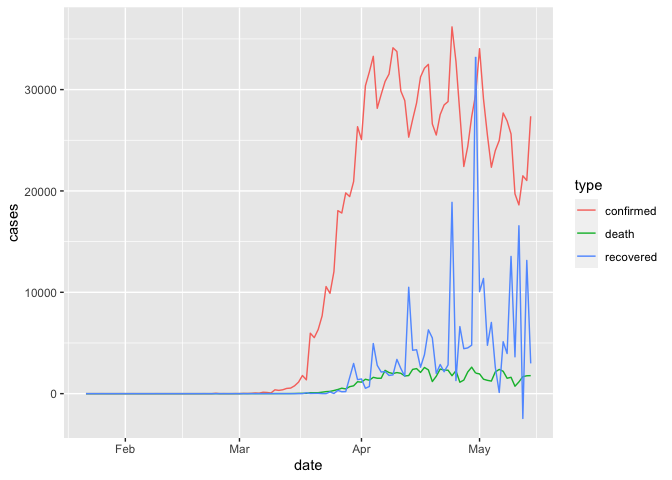
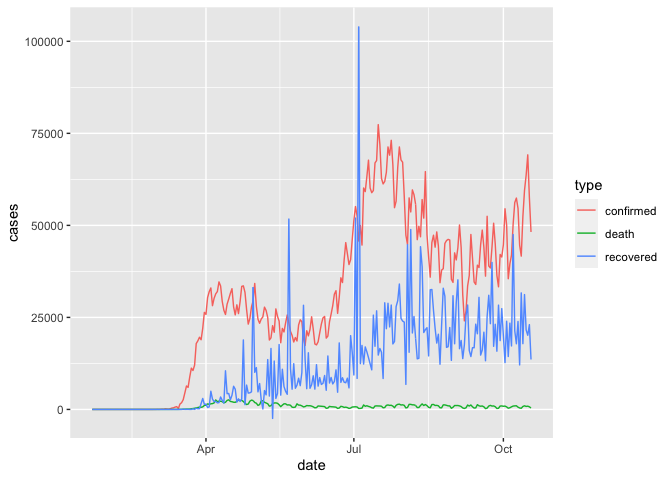
Lesson 10 updates

diff --git a/docs/lesson10-tidy-data.html b/docs/lesson10-tidy-data.html
@@ -442,7 +442,6 @@ div.tocify {
 <h2>Announcements</h2>
 <ul>
 <li>Guest lecture on Wednesday by Erika Mudrak from the Cornell Statistical Consultation Unit. She will talk about debugging strategies (she has to debug a lot of people’s code!) and about getting help with R. Don’t miss it!</li>
-<li>Thanks for the mid-term feedback!</li>
 </ul>
 <p><br> <br></p>
 </div>
@@ -561,6 +560,7 @@ library(janitor)  ## install.packages(&quot;janitor&quot;)</code></pre>
 <p>To explore tidy data in a different context, let’s work through a tutorial developed by Jenny Bryan using data on the Lord of the Rings movies. This nicely illustrates the concepts of lengtening and widening datasets. It uses outdated functions for pivoting the dataframes, however, so we’ll work through updated code here (i.e. only look at the <code>01-intro.md</code> file, not the <code>02-gather.md</code> and <code>03-spread.md</code>).</p>
 <p>First let’s read the intro (<code>01-intro.md</code>) <a href="https://github.com/jennybc/lotr-tidy/blob/master/01-intro.md">here</a></p>
 <p>Then let’s work through reshaping the data.</p>
+<p><br></p>
 <div id="import-untidy-lord-of-the-rings-data" class="section level4">
 <h4>1. Import untidy Lord of the Rings data</h4>
 <p>We bring the data into data frames or tibbles, one per film, and do some inspection.</p>
@@ -588,6 +588,7 @@ library(janitor)  ## install.packages(&quot;janitor&quot;)</code></pre>
 ##   Female = col_double(),
 ##   Male = col_double()
 ## )</code></pre>
+<p><br></p>
 </div>
 <div id="collect-untidy-lord-of-the-rings-data-into-a-single-data-frame" class="section level4">
 <h4>2. Collect untidy Lord of the Rings data into a single data frame</h4>
@@ -619,6 +620,7 @@ str(lotr_untidy)</code></pre>
 ## 7 The Return Of The King     Elf       183   510
 ## 8 The Return Of The King     Hobbit      2  2673
 ## 9 The Return Of The King     Man       268  2459</code></pre>
+<p><br></p>
 </div>
 <div id="tidy-the-untidy-lord-of-the-rings-data" class="section level4">
 <h4>3. Tidy the untidy Lord of the Rings data</h4>
@@ -650,6 +652,7 @@ lotr_tidy</code></pre>
 ## 18 The Return Of The King     Man    Female   268</code></pre>
 <p>Tidy data… mission accomplished!</p>
 <p>To explain our call to pivot_longer() above, let’s read it from right to left: we took the variables Female and Male and gathered their values into a single new variable Words. This forced the creation of a companion variable Gender, which tells whether a specific value of Words came from Female or Male. All other variables, such as Film, remain unchanged and are simply replicated as needed.</p>
+<p><br></p>
 </div>
 <div id="write-the-tidy-data-to-a-delimited-file" class="section level4">
 <h4>4. Write the tidy data to a delimited file</h4>
@@ -726,33 +729,34 @@ lotr_tidy %&gt;%
 <div id="applying-this-to-our-coronavirus-dataset" class="section level2">
 <h2>Applying this to our Coronavirus dataset</h2>
 <p>Let’s now return to our Coronavirus dataset. Let’s remind ourselves of it’s structure</p>
-<pre class="r"><code>coronavirus &lt;- read_csv(&#39;https://raw.githubusercontent.com/RamiKrispin/coronavirus-csv/master/coronavirus_dataset.csv&#39;, col_types = cols(Province.State = col_character()))
+<pre class="r"><code>coronavirus &lt;- read_csv(&#39;https://raw.githubusercontent.com/RamiKrispin/coronavirus/master/csv/coronavirus.csv&#39;, col_types = cols(province = col_character()))
 
 coronavirus</code></pre>
-<pre><code>## # A tibble: 89,490 x 7
-##    Province.State Country.Region   Lat  Long date       cases type     
-##    &lt;chr&gt;          &lt;chr&gt;          &lt;dbl&gt; &lt;dbl&gt; &lt;date&gt;     &lt;dbl&gt; &lt;chr&gt;    
-##  1 &lt;NA&gt;           Afghanistan       33    65 2020-01-22     0 confirmed
-##  2 &lt;NA&gt;           Afghanistan       33    65 2020-01-23     0 confirmed
-##  3 &lt;NA&gt;           Afghanistan       33    65 2020-01-24     0 confirmed
-##  4 &lt;NA&gt;           Afghanistan       33    65 2020-01-25     0 confirmed
-##  5 &lt;NA&gt;           Afghanistan       33    65 2020-01-26     0 confirmed
-##  6 &lt;NA&gt;           Afghanistan       33    65 2020-01-27     0 confirmed
-##  7 &lt;NA&gt;           Afghanistan       33    65 2020-01-28     0 confirmed
-##  8 &lt;NA&gt;           Afghanistan       33    65 2020-01-29     0 confirmed
-##  9 &lt;NA&gt;           Afghanistan       33    65 2020-01-30     0 confirmed
-## 10 &lt;NA&gt;           Afghanistan       33    65 2020-01-31     0 confirmed
-## # … with 89,480 more rows</code></pre>
+<pre><code>## # A tibble: 213,548 x 7
+##    date       province country       lat  long type      cases
+##    &lt;date&gt;     &lt;chr&gt;    &lt;chr&gt;       &lt;dbl&gt; &lt;dbl&gt; &lt;chr&gt;     &lt;dbl&gt;
+##  1 2020-01-22 &lt;NA&gt;     Afghanistan  33.9  67.7 confirmed     0
+##  2 2020-01-23 &lt;NA&gt;     Afghanistan  33.9  67.7 confirmed     0
+##  3 2020-01-24 &lt;NA&gt;     Afghanistan  33.9  67.7 confirmed     0
+##  4 2020-01-25 &lt;NA&gt;     Afghanistan  33.9  67.7 confirmed     0
+##  5 2020-01-26 &lt;NA&gt;     Afghanistan  33.9  67.7 confirmed     0
+##  6 2020-01-27 &lt;NA&gt;     Afghanistan  33.9  67.7 confirmed     0
+##  7 2020-01-28 &lt;NA&gt;     Afghanistan  33.9  67.7 confirmed     0
+##  8 2020-01-29 &lt;NA&gt;     Afghanistan  33.9  67.7 confirmed     0
+##  9 2020-01-30 &lt;NA&gt;     Afghanistan  33.9  67.7 confirmed     0
+## 10 2020-01-31 &lt;NA&gt;     Afghanistan  33.9  67.7 confirmed     0
+## # … with 213,538 more rows</code></pre>
 <p><strong>QUESTION</strong>: Is this in tidy format?</p>
 <p>Last class, we visualized the global case counts date</p>
 <pre class="r"><code>coronavirus %&gt;% 
   group_by(date, type) %&gt;%
-  summarize(cases=sum(cases)) %&gt;%
+  summarize(cases = sum(cases)) %&gt;%
   ggplot() +
-  geom_col(aes(x=date, y = cases, fill = type))</code></pre>
+  geom_col(aes(x = date, y = cases, fill = type))</code></pre>
 <pre><code>## `summarise()` regrouping output by &#39;date&#39; (override with `.groups` argument)</code></pre>
-<p><img src="lesson10-files/unnamed-chunk-9-1.png" /><!-- --></p>
+<p><img src="lesson10-files/unnamed-chunk-9-1.png" /><!-- --> <br></p>
 <p>Let’s see how we would do that if the data had been in a wider format.</p>
+<p><br></p>
 <div id="your-turn-1" class="section level4">
 <h4>Your turn</h4>
 <p>Convert the coronavirus dataset to a wider format where the confirmed cases, deaths and recovered cases are shown in separate columns.</p>
@@ -761,23 +765,24 @@ coronavirus</code></pre>
 <h5>Answer</h5>
 <pre class="r"><code>corona_wide &lt;- coronavirus %&gt;% 
   pivot_wider(names_from = type, values_from = cases)</code></pre>
+<p><br></p>
 <p>Now how do we reproduce the barchart of total cases per day broken down by type?</p>
 <p>And how would be plot the daily counts of different case types within a country? With the long format this is easy:</p>
 <pre class="r"><code>coronavirus %&gt;% 
-  filter(Country.Region == &quot;US&quot;) %&gt;% 
+  filter(country == &quot;US&quot;) %&gt;% 
   ggplot() +
   geom_line(aes(x = date, y = cases, color = type))</code></pre>
 <p><img src="lesson10-files/unnamed-chunk-11-1.png" /><!-- --></p>
 <p>How would we do this with the <code>coronavirus_wide</code> format? That would be much more difficult</p>
 <p>As mentioned above, however, there are plot types where the wide format provides the best input. For example, in Slack, I showed the example of plotting the total death count per country against the total count of confirmed cases. It would be cumbersome to pull these out of the long format because in <code>ggplot</code> we are mapping <em>variables</em> to <em>aesthetics</em> and now we want to map different levels of a variable to different aesthetics. So let’s make those different levels separate variables by widening the data.</p>
 <pre class="r"><code>coronavirus_ttd &lt;- coronavirus %&gt;% 
-  group_by(Country.Region, type) %&gt;%
+  group_by(country, type) %&gt;%
   summarize(total_cases = sum(cases)) %&gt;%
   pivot_wider(names_from = type, values_from = total_cases)</code></pre>
-<pre><code>## `summarise()` regrouping output by &#39;Country.Region&#39; (override with `.groups` argument)</code></pre>
+<pre><code>## `summarise()` regrouping output by &#39;country&#39; (override with `.groups` argument)</code></pre>
 <pre class="r"><code># Now we can plot this easily
 ggplot(coronavirus_ttd) +
-  geom_label(mapping = aes(x = confirmed, y = death, label = Country.Region))</code></pre>
+  geom_label(mapping = aes(x = confirmed, y = death, label = country))</code></pre>
 <p><img src="lesson10-files/unnamed-chunk-12-1.png" /><!-- --></p>
 <p>This case highlights how the definition of what a variable and an observation is context-dependent so different formats of the same data can be considered tidy based on how we are thinking about the data and we may need to switch back and forth between long and wide formats to explore different levels of a dataset.</p>
 <p><br></p>
@@ -789,8 +794,7 @@ ggplot(coronavirus_ttd) +
 <p>Using <code>janitor::clean_names()</code></p>
 <p>We’ve noticed in the coronavirus dataset that the variable names have a very inconsistent format. It’s not a problem per se for our ability to work with this dataframe, but it’s a bit annoying to look at.</p>
 <pre class="r"><code>colnames(coronavirus)</code></pre>
-<pre><code>## [1] &quot;Province.State&quot; &quot;Country.Region&quot; &quot;Lat&quot;            &quot;Long&quot;          
-## [5] &quot;date&quot;           &quot;cases&quot;          &quot;type&quot;</code></pre>
+<pre><code>## [1] &quot;date&quot;     &quot;province&quot; &quot;country&quot;  &quot;lat&quot;      &quot;long&quot;     &quot;type&quot;     &quot;cases&quot;</code></pre>
 <p>In other cases, spaces and special characters in column names of data you import can actually cause problems downstream, so we often may want to clean them up.</p>
 <p>The <code>janitor</code> package by Sam Firke is a great collection of functions for some quick data cleaning, like:</p>
 <ul>
@@ -811,8 +815,7 @@ ggplot(coronavirus_ttd) +
 <pre class="r"><code>coronavirus &lt;- coronavirus %&gt;% 
   clean_names()</code></pre>
 <pre class="r"><code>names(coronavirus)</code></pre>
-<pre><code>## [1] &quot;province_state&quot; &quot;country_region&quot; &quot;lat&quot;            &quot;long&quot;          
-## [5] &quot;date&quot;           &quot;cases&quot;          &quot;type&quot;</code></pre>
+<pre><code>## [1] &quot;date&quot;     &quot;province&quot; &quot;country&quot;  &quot;lat&quot;      &quot;long&quot;     &quot;type&quot;     &quot;cases&quot;</code></pre>
 <p>And there are other case options in <code>clean_names()</code>, like:</p>
 <ul>
 <li>“snake” produces snake_case (the default)</li>

diff --git a/docs/site_libs/navigation-1.1/codefolding.js b/docs/site_libs/navigation-1.1/codefolding.js
@@ -17,13 +17,13 @@ window.initializeCodeFolding = function(show) {
   var currentIndex = 1;
 
   // select all R code blocks
-  var rCodeBlocks = $('pre.r, pre.python, pre.bash, pre.sql, pre.cpp, pre.stan, pre.julia');
+  var rCodeBlocks = $('pre.r, pre.python, pre.bash, pre.sql, pre.cpp, pre.stan, pre.julia, pre.foldable');
   rCodeBlocks.each(function() {
 
     // create a collapsable div to wrap the code in
     var div = $('<div class="collapse r-code-collapse"></div>');
-    if (show || $(this)[0].classList.contains('fold-show'))
-      div.addClass('in');
+    show = (show || $(this).hasClass('fold-show')) && !$(this).hasClass('fold-hide');
+    if (show) div.addClass('in');
     var id = 'rcode-643E0F36' + currentIndex++;
     div.attr('id', id);
     $(this).before(div);

diff --git a/analysis/lesson10-tidy-data.md b/analysis/lesson10-tidy-data.md
@@ -36,7 +36,6 @@ output:
 ## Announcements
 
 * Guest lecture on Wednesday by Erika Mudrak from the Cornell Statistical Consultation Unit. She will talk about debugging strategies (she has to debug a lot of people's code!) and about getting help with R. Don't miss it!
-* Thanks for the mid-term feedback!
 
 <br>
 <br>
@@ -199,6 +198,7 @@ First let's read the intro (`01-intro.md`) [here](https://github.com/jennybc/lot
 
 Then let's work through reshaping the data.
 
+<br>
 
 #### 1. Import untidy Lord of the Rings data
 
@@ -245,6 +245,7 @@ rking <- read_csv("https://raw.githubusercontent.com/jennybc/lotr-tidy/master/da
 ##   Male = col_double()
 ## )
 ```
+<br>
 
 #### 2. Collect untidy Lord of the Rings data into a single data frame
 We now have one data frame per film, each with a common set of 4 variables. Step one in tidying this data is to glue them together into one data frame, stacking them up row wise. This is called row binding and we use `dplyr::bind_rows()`.
@@ -288,6 +289,7 @@ lotr_untidy
 ## 8 The Return Of The King     Hobbit      2  2673
 ## 9 The Return Of The King     Man       268  2459
 ```
+<br>
 
 #### 3. Tidy the untidy Lord of the Rings data
 We are still violating one of the fundamental principles of **tidy data**. “Word count” is a fundamental variable in our dataset and it’s currently spread out over two variables, `Female` and `Male`. Conceptually, we need to gather up the word counts into a single variable and create a new variable, `Gender`, to track whether each count refers to females or males. We use the `pivot_longer()` function from the tidyr package to do this.
@@ -326,6 +328,8 @@ lotr_tidy
 Tidy data... mission accomplished!
 
 To explain our call to pivot_longer() above, let’s read it from right to left: we took the variables Female and Male and gathered their values into a single new variable Words. This forced the creation of a companion variable Gender, which tells whether a specific value of Words came from Female or Male. All other variables, such as Film, remain unchanged and are simply replicated as needed. 
+
+<br>
 
 #### 4. Write the tidy data to a delimited file
 Now we write this multi-film, tidy dataset to file for use in various downstream scripts for further analysis and visualization.
@@ -430,26 +434,26 @@ Let's now return to our Coronavirus dataset. Let's remind ourselves of it's stru
 
 
 ```r
-coronavirus <- read_csv('https://raw.githubusercontent.com/RamiKrispin/coronavirus-csv/master/coronavirus_dataset.csv', col_types = cols(Province.State = col_character()))
+coronavirus <- read_csv('https://raw.githubusercontent.com/RamiKrispin/coronavirus/master/csv/coronavirus.csv', col_types = cols(province = col_character()))
 
 coronavirus
 ```
 
 ```
-## # A tibble: 89,490 x 7
-##    Province.State Country.Region   Lat  Long date       cases type     
-##    <chr>          <chr>          <dbl> <dbl> <date>     <dbl> <chr>    
-##  1 <NA>           Afghanistan       33    65 2020-01-22     0 confirmed
-##  2 <NA>           Afghanistan       33    65 2020-01-23     0 confirmed
-##  3 <NA>           Afghanistan       33    65 2020-01-24     0 confirmed
-##  4 <NA>           Afghanistan       33    65 2020-01-25     0 confirmed
-##  5 <NA>           Afghanistan       33    65 2020-01-26     0 confirmed
-##  6 <NA>           Afghanistan       33    65 2020-01-27     0 confirmed
-##  7 <NA>           Afghanistan       33    65 2020-01-28     0 confirmed
-##  8 <NA>           Afghanistan       33    65 2020-01-29     0 confirmed
-##  9 <NA>           Afghanistan       33    65 2020-01-30     0 confirmed
-## 10 <NA>           Afghanistan       33    65 2020-01-31     0 confirmed
-## # … with 89,480 more rows
+## # A tibble: 213,548 x 7
+##    date       province country       lat  long type      cases
+##    <date>     <chr>    <chr>       <dbl> <dbl> <chr>     <dbl>
+##  1 2020-01-22 <NA>     Afghanistan  33.9  67.7 confirmed     0
+##  2 2020-01-23 <NA>     Afghanistan  33.9  67.7 confirmed     0
+##  3 2020-01-24 <NA>     Afghanistan  33.9  67.7 confirmed     0
+##  4 2020-01-25 <NA>     Afghanistan  33.9  67.7 confirmed     0
+##  5 2020-01-26 <NA>     Afghanistan  33.9  67.7 confirmed     0
+##  6 2020-01-27 <NA>     Afghanistan  33.9  67.7 confirmed     0
+##  7 2020-01-28 <NA>     Afghanistan  33.9  67.7 confirmed     0
+##  8 2020-01-29 <NA>     Afghanistan  33.9  67.7 confirmed     0
+##  9 2020-01-30 <NA>     Afghanistan  33.9  67.7 confirmed     0
+## 10 2020-01-31 <NA>     Afghanistan  33.9  67.7 confirmed     0
+## # … with 213,538 more rows
 ```
 
 **QUESTION**: Is this in tidy format?
@@ -460,9 +464,9 @@ Last class, we visualized the global case counts date
 ```r
 coronavirus %>% 
   group_by(date, type) %>%
-  summarize(cases=sum(cases)) %>%
+  summarize(cases = sum(cases)) %>%
   ggplot() +
-  geom_col(aes(x=date, y = cases, fill = type))
+  geom_col(aes(x = date, y = cases, fill = type))
 ```
 
 ```
@@ -470,8 +474,11 @@ coronavirus %>%
 ```
 
 ![](lesson10-files/unnamed-chunk-9-1.png)<!-- -->
+<br>
 
 Let's see how we would do that if the data had been in a wider format.
+
+<br>
 
 #### Your turn
 Convert the coronavirus dataset to a wider format where the confirmed cases, deaths and recovered cases are shown in separate columns.
@@ -485,6 +492,8 @@ corona_wide <- coronavirus %>%
   pivot_wider(names_from = type, values_from = cases)
 ```
 
+<br>
+
 Now how do we reproduce the barchart of total cases per day broken down by type? 
 
 And how would be plot the daily counts of different case types within a country? With the long format this is easy:
@@ -492,7 +501,7 @@ And how would be plot the daily counts of different case types within a country?
 
 ```r
 coronavirus %>% 
-  filter(Country.Region == "US") %>% 
+  filter(country == "US") %>% 
   ggplot() +
   geom_line(aes(x = date, y = cases, color = type))
 ```
@@ -506,19 +515,19 @@ As mentioned above, however, there are plot types where the wide format provides
 
 ```r
 coronavirus_ttd <- coronavirus %>% 
-  group_by(Country.Region, type) %>%
+  group_by(country, type) %>%
   summarize(total_cases = sum(cases)) %>%
   pivot_wider(names_from = type, values_from = total_cases)
 ```
 
 ```
-## `summarise()` regrouping output by 'Country.Region' (override with `.groups` argument)
+## `summarise()` regrouping output by 'country' (override with `.groups` argument)
 ```
 
 ```r
 # Now we can plot this easily
 ggplot(coronavirus_ttd) +
-  geom_label(mapping = aes(x = confirmed, y = death, label = Country.Region))
+  geom_label(mapping = aes(x = confirmed, y = death, label = country))
 ```
 
 ![](lesson10-files/unnamed-chunk-12-1.png)<!-- -->
@@ -539,8 +548,7 @@ colnames(coronavirus)
 ```
 
 ```
-## [1] "Province.State" "Country.Region" "Lat"            "Long"          
-## [5] "date"           "cases"          "type"
+## [1] "date"     "province" "country"  "lat"      "long"     "type"     "cases"
 ```
 
 In other cases, spaces and special characters in column names of data you import can actually cause problems downstream, so we often may want to clean them up.
@@ -575,8 +583,7 @@ names(coronavirus)
 ```
 
 ```
-## [1] "province_state" "country_region" "lat"            "long"          
-## [5] "date"           "cases"          "type"
+## [1] "date"     "province" "country"  "lat"      "long"     "type"     "cases"
 ```
 
 And there are other case options in `clean_names()`, like: 
